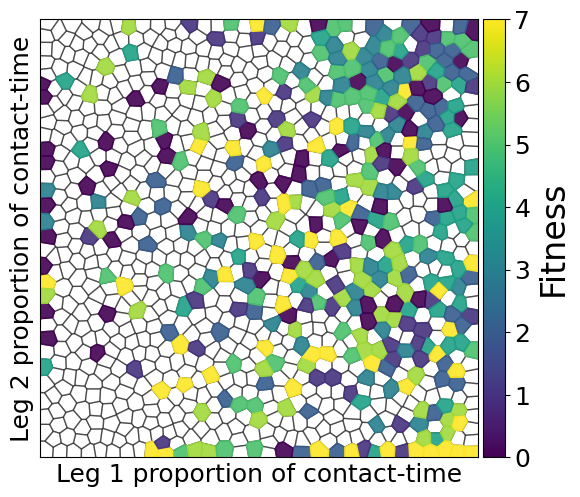
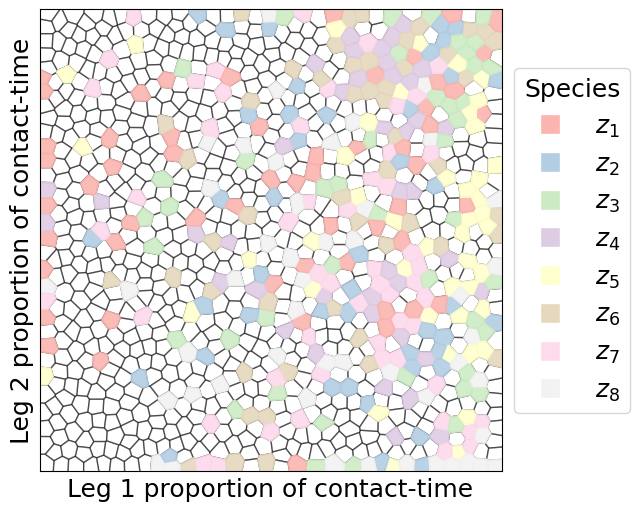
Improved species plot

diff --git a/src/analysis/plot_cvt_maps.py b/src/analysis/plot_cvt_maps.py
@@ -3,6 +3,7 @@ import traceback
 import matplotlib as mpl
 import numpy as np
 from matplotlib import pyplot as plt
+from matplotlib.lines import Line2D
 from mpl_toolkits.axes_grid1 import make_axes_locatable
 from scipy.spatial import Voronoi
 from sklearn.neighbors import KDTree
@@ -49,6 +50,9 @@ def plot_cvt_map(
     
     if ryan:
         fit, beh = load_ryan_data(archive_file, plot_species) # fit = fit if plot_species False, species if True
+        if plot_species:
+            # colormap = mpl.colors.ListedColormap(["red", "green", "orange", "yellow", "violet", "deeppink", "sienna", "black"])
+            colormap = mpl.cm.Pastel1
     else:
         fit, beh, _ = load_data(archive_file, centroids.shape[1], verbose=verbose)
 
@@ -93,6 +97,7 @@ def plot_cvt_map(
         "ytick.labelsize": 18,
         "text.usetex": False,
         "figure.figsize": [6, 6],
+        'legend.title_fontsize': 18
     }
     mpl.rcParams.update(params)
 
@@ -114,11 +119,26 @@ def plot_cvt_map(
     ax.set_yticks([])
     ax.set_xlabel(bd_axis[0])
     ax.set_ylabel(bd_axis[1])
-    divider = make_axes_locatable(ax)
-    cax = divider.append_axes("right", size="5%", pad=0.05)
-    cbar = plt.colorbar(mpl.cm.ScalarMappable(norm=norm, cmap=colormap), cax=cax)
-    cbar.set_label("Fitness", size=24, labelpad=5)
-    cbar.ax.tick_params(labelsize=18)
+    
+
+    if not plot_species:
+        divider = make_axes_locatable(ax)
+        cax = divider.append_axes("right", size="5%", pad=0.05)
+
+        cbar = plt.colorbar(mpl.cm.ScalarMappable(norm=norm, cmap=colormap), cax=cax)
+        cbar.set_label("Fitness", size=24, labelpad=5)
+        cbar.ax.tick_params(labelsize=18)
+    else:
+        custom_lines = []
+        for i in range(max_fit[0]+1):
+            custom_lines.append(Line2D([0], [0], color='w', marker='s', markersize=15, markerfacecolor=colormap(norm(i/1.))))
+
+        labels = []
+        for i in range(max_fit[0]+1):
+            species_id = i + 1
+            labels.append(f"$z_{species_id}$")
+        
+        ax.legend(custom_lines, labels, title="Species", loc="center left", bbox_to_anchor=(1, 0.5))
 
     # Save figure
     fig.savefig(f"{save_path}/{case_name}.png", bbox_inches="tight")
